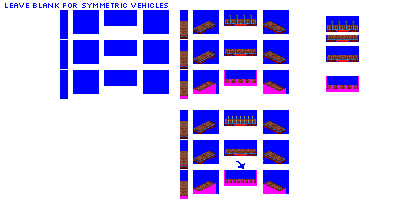
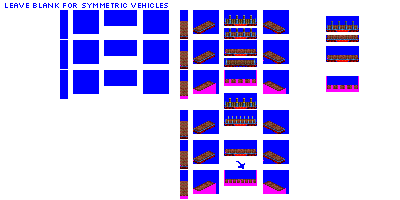
Change: stub in pipe wagons

Changed region(s): [[0.54, 0.06, 0.66, 0.21], [0.54, 0.45, 0.66, 0.57], [0.54, 0.27, 0.66, 0.36]]

diff --git a/src/vehicles/pony/pipe_cars_pony.py b/src/vehicles/pony/pipe_cars_pony.py
@@ -11,7 +11,7 @@ def main(roster_id, **kwargs):
         base_numeric_id=30460,
         gen=1,
         subtype="A",
-        sprites_complete=True,
+        sprites_complete=False,
     )
 
     consist.add_unit(type=FreightCar, chassis="2_axle_filled_16px")
@@ -24,7 +24,7 @@ def main(roster_id, **kwargs):
         base_numeric_id=21190,
         gen=2,
         subtype="B",
-        sprites_complete=True,
+        sprites_complete=False,
     )
 
     consist.add_unit(type=FreightCar, chassis="3_axle_gapped_24px")
@@ -35,7 +35,7 @@ def main(roster_id, **kwargs):
         base_numeric_id=21390,
         gen=3,
         subtype="A",
-        sprites_complete=True,
+        sprites_complete=False,
     )
 
     consist.add_unit(type=FreightCar, chassis="2_axle_filled_16px")
@@ -46,7 +46,7 @@ def main(roster_id, **kwargs):
         base_numeric_id=21200,
         gen=3,
         subtype="B",
-        sprites_complete=True,
+        sprites_complete=False,
     )
 
     consist.add_unit(type=FreightCar, chassis="4_axle_gapped_24px")
@@ -57,7 +57,7 @@ def main(roster_id, **kwargs):
         base_numeric_id=21590,
         gen=3,
         subtype="C",
-        sprites_complete=True,
+        sprites_complete=False,
     )
 
     consist.add_unit(type=FreightCar, chassis="4_axle_gapped_32px")
@@ -68,7 +68,7 @@ def main(roster_id, **kwargs):
         base_numeric_id=21600,
         gen=4,
         subtype="A",
-        sprites_complete=True,
+        sprites_complete=False,
     )
 
     consist.add_unit(type=FreightCar, chassis="2_axle_filled_16px")
@@ -79,7 +79,7 @@ def main(roster_id, **kwargs):
         base_numeric_id=21580,
         gen=4,
         subtype="B",
-        sprites_complete=True,
+        sprites_complete=False,
     )
 
     consist.add_unit(type=FreightCar, chassis="4_axle_filled_24px")
@@ -90,22 +90,22 @@ def main(roster_id, **kwargs):
         base_numeric_id=21570,
         gen=4,
         subtype="C",
-        sprites_complete=True,
+        sprites_complete=False,
     )
 
     consist.add_unit(type=FreightCar, chassis="4_axle_gapped_32px")
-
+    """
     consist = PipeCarConsist(
         roster_id=roster_id,
         roster_id_providing_module=kwargs["roster_id_providing_module"],
-        base_numeric_id=21560,
+        base_numeric_id=35590,
         gen=5,
         subtype="B",
-        sprites_complete=True,
+        sprites_complete=False,
     )
 
-    consist.add_unit(type=FreightCar, chassis="2_axle_1cc_filled_24px")
-    """
+    consist.add_unit(type=FreightCar, chassis="4_axle_1cc_filled_24px")
+
     consist = PipeCarConsist(
         roster_id=roster_id,
         roster_id_providing_module=kwargs["roster_id_providing_module"],

diff --git a/src/train.py b/src/train.py
@@ -7500,7 +7500,7 @@ class PieceGoodsCarManufacturingPartsRandomisedConsist(
         )
 
 
-class PipeCarConsist(OpenCarConsistBase):
+class PipeCarConsist(FlatCarConsistBase):
     """
     Pipe wagon with fixed stakes & cradles, reusable for tube and other long products.
     """
